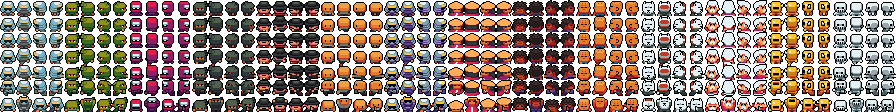
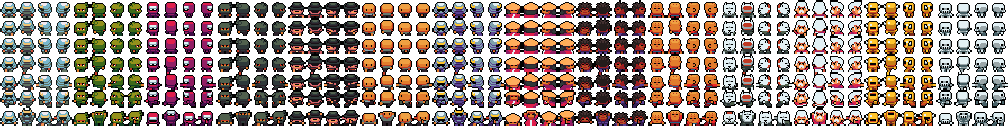
Combattants et armes : plus de trait de l'image voisine au bord des sprites
Les cases de 16 px étaient collées dans les planches : avec le zoom non entier de la caméra, la colonne
de la case voisine apparaissait en trait fin à côté du combattant. Cases écartées, bord recopié sur 1 px
(scripts/espacer.py), chargées avec margin 1 et spacing 2 ; icônes d'armes du vestiaire recalées.

diff --git a/src/game/assets.ts b/src/game/assets.ts
@@ -44,13 +44,17 @@ export const THEME_BG = ['brume', 'coucher', 'neon', 'neige', 'bambou', 'volcan'
 export const SPECIES = ['koi_orange', 'koi_blanc', 'koi_or', 'lanterne', 'argente', 'carpe_jade', 'braise'];
 export const FLOATS = ['nenuphar', 'fleur', 'glace', 'lave', 'lanterne', 'feuille'];
 const BASE = import.meta.env.BASE_URL + 'assets/';
+// Planches des combattants et des armes : cases écartées, bord recopié (scripts/espacer.py), pour que le zoom
+// de la caméra ne fasse pas apparaître un trait de la case voisine au bord des sprites.
+const ESPACE = { margin: 1, spacing: 2 };
 
 export function preloadAssets(scene: Phaser.Scene) {
   scene.load.spritesheet('persos', BASE + (contourNoir ? 'persos-noir.png' : 'persos.png'), {
     frameWidth: 16,
     frameHeight: 16,
+    ...ESPACE,
   });
-  scene.load.spritesheet('armes', BASE + 'armes.png', { frameWidth: 16, frameHeight: 16 });
+  scene.load.spritesheet('armes', BASE + 'armes.png', { frameWidth: 16, frameHeight: 16, ...ESPACE });
   // Rastérisés à la taille demandée (4096 px de large au plus : limite des GPU mobiles) puis affichés à 2400 × 420.
   for (const t of THEME_BG) scene.load.svg('bg-' + t, BASE + 'decor/bg-' + t + '.svg', { width: 4096, height: 717 });
   for (const s of SPECIES) scene.load.svg('fish-' + s, BASE + 'decor/fish-' + s + '.svg', { width: 276, height: 96 }); // un seul tenant : déformé en tranches par le jeu

diff --git a/src/style.css b/src/style.css
@@ -1082,8 +1082,9 @@ body.touch .atk b {
   height: 34px;
   flex: none;
   background: url(/assets/armes.png) no-repeat;
-  background-size: 700% 100%;
-  background-position: calc(var(--i) * 100% / 6) 0;
+  /* planche de 7 cases de 16 px écartées : 1 px de marge, 18 px d'une case à l'autre (scripts/espacer.py) */
+  background-size: calc(34px * 126 / 16) calc(34px * 18 / 16);
+  background-position: calc((1px + var(--i) * 18px) * -34 / 16) calc(-34px / 16);
   image-rendering: pixelated;
 }
 .wico.none {

diff --git a/scripts/espacer.py b/scripts/espacer.py
@@ -1,0 +1,48 @@
+"""Écarte les cases d'une planche de sprites pour supprimer les traits fins au bord des combattants.
+
+Dans une planche collée (cases de 16 px bord à bord), le jeu agrandit les sprites avec un zoom de caméra
+qui n'est pas entier : la carte graphique lit parfois la première colonne de la case voisine, qui
+apparaît comme un trait fin à côté du combattant. On entoure chaque case d'un pixel qui recopie son
+propre bord (extrusion) : ce qui déborde est alors la couleur du sprite lui-même, ou du vide.
+
+Planche de sortie : marge de 1 px, 2 px entre les cases (à déclarer dans le chargement Phaser :
+margin: 1, spacing: 2).
+
+Usage : python3 scripts/espacer.py <planche d'entrée> <planche de sortie> [taille d'une case, 16 par défaut]
+Appelé aussi par scripts/build-assets.py. À ne lancer qu'une fois sur une planche collée.
+"""
+import sys
+
+from PIL import Image
+
+MARGE = 1  # pixels recopiés autour de chaque case
+
+
+def espacer(im, case=16):
+    im = im.convert('RGBA')
+    w, h = im.size
+    assert w % case == 0 and h % case == 0, ('planche déjà espacée ?', im.size)
+    pas = case + 2 * MARGE
+    out = Image.new('RGBA', (w // case * pas, h // case * pas))
+    for cy in range(h // case):
+        for cx in range(w // case):
+            fr = im.crop((cx * case, cy * case, cx * case + case, cy * case + case))
+            x, y = cx * pas + MARGE, cy * pas + MARGE
+            out.paste(fr, (x, y))
+            for d in range(1, MARGE + 1):  # bords recopiés, puis coins
+                out.paste(fr.crop((0, 0, case, 1)), (x, y - d))
+                out.paste(fr.crop((0, case - 1, case, case)), (x, y + case - 1 + d))
+                out.paste(fr.crop((0, 0, 1, case)), (x - d, y))
+                out.paste(fr.crop((case - 1, 0, case, case)), (x + case - 1 + d, y))
+            for dx in range(-MARGE, 1):
+                for dy in range(-MARGE, 1):
+                    out.putpixel((x + dx, y + dy), fr.getpixel((0, 0)))
+                    out.putpixel((x + case - 1 - dx, y + dy), fr.getpixel((case - 1, 0)))
+                    out.putpixel((x + dx, y + case - 1 - dy), fr.getpixel((0, case - 1)))
+                    out.putpixel((x + case - 1 - dx, y + case - 1 - dy), fr.getpixel((case - 1, case - 1)))
+    return out
+
+
+if __name__ == '__main__':
+    case = int(sys.argv[3]) if len(sys.argv) > 3 else 16
+    espacer(Image.open(sys.argv[1]), case).save(sys.argv[2], optimize=True)

diff --git a/scripts/build-assets.py b/scripts/build-assets.py
@@ -15,6 +15,7 @@ import sys
 from PIL import Image
 
 from contour import adoucir
+from espacer import espacer
 
 NA, SP = sys.argv[1], os.path.join(sys.argv[2], 'ninja-adventure')
 OUT = os.path.join(os.path.dirname(__file__), '..', 'public', 'assets')
@@ -77,8 +78,9 @@ def main():
             f.paste(front, (3, 6), front)
         faces.paste(f, (38 * i, 0))
     # Contour noir d'origine gardé à part pour comparer (?contour=noir), contour adouci par défaut.
-    sheet.save(os.path.join(OUT, 'persos-noir.png'), optimize=True)
-    adoucir(sheet).save(os.path.join(OUT, 'persos.png'), optimize=True)
+    # Cases écartées (scripts/espacer.py) : plus de trait de la case voisine au bord des combattants.
+    espacer(sheet).save(os.path.join(OUT, 'persos-noir.png'), optimize=True)
+    espacer(adoucir(sheet)).save(os.path.join(OUT, 'persos.png'), optimize=True)
     faces.save(os.path.join(OUT, 'portraits.png'), optimize=True)
 
     # Armes : pointe vers la droite, poignée à gauche, centrées dans une case de 16 px.
@@ -89,7 +91,7 @@ def main():
         im = im.crop(im.getbbox())
         assert im.width <= 16 and im.height <= 16, (wid, im.size)
         weap.paste(im, (16 * i, 8 - im.height // 2), im)
-    weap.save(os.path.join(OUT, 'armes.png'), optimize=True)
+    espacer(weap).save(os.path.join(OUT, 'armes.png'), optimize=True)
 
     # Sol du dojo : un motif de 3 x 3 tuiles du temple (pierre claire, ou mousse pour le tatami mouillé).
     # Archivé : la plateforme est maintenant dessinée en code (render.ts).
